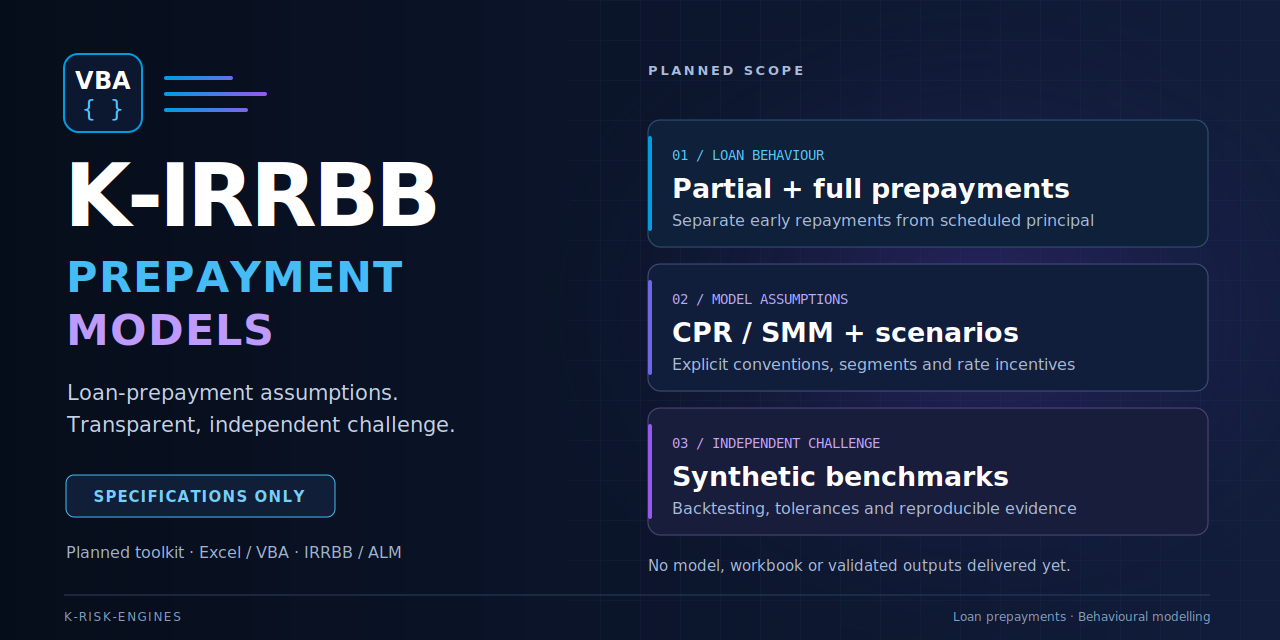
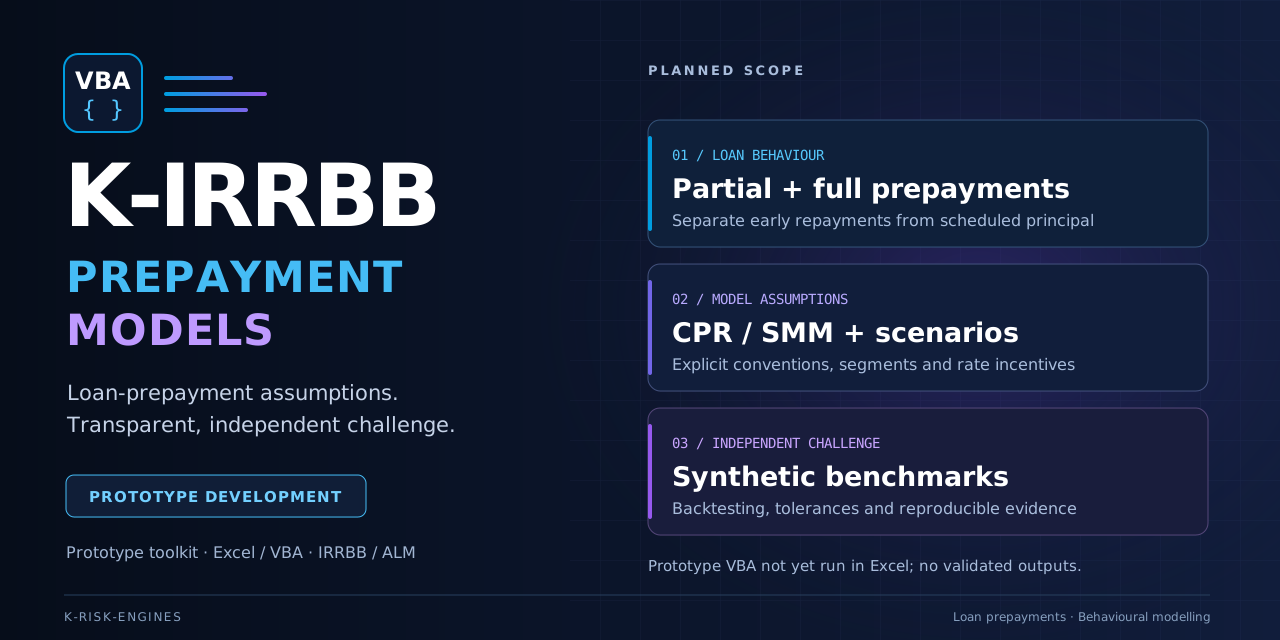
fix: align label docs, branding, workflow runtimes and merge baseline
Resolve the inconsistencies found in the repository audit of main 0157aa2.

Labels (#174): docs/LABELS.md gives the current P1/P2 meanings, the
main-only reconciliation with its refusal to delete a label in use, and the
metadata workflow's scope, which excludes priorities. The blocked
description covers external conditions, the bug description fits reports
the bug form labels, and the issue-triage comment matches check_issues.py.

Branding (#175): the SVG shows Prototype development and says the prototype
VBA has not run in Excel and no output is validated. The PNG is re-rendered
with CairoSVG 2.8.2 as the assets guide prescribes and its digest in
tools/check.py updated. README alt text, the assets guide and
CONTRIBUTING.md follow.

Runtimes (#176): issue-metadata, pr-milestones, labels-sync and
labels-drift install SHA-pinned Python 3.13.18 or Node.js 24.22.2.
check_config.py rejects a step that runs python, python3 or node before a
setup action installs it at an exact version, with unit tests; on the
previous workflows it flags exactly those four. The minimum job becomes
Minimum runtimes (Python 3.10, Node.js 22) and tests Node.js 22.23.5.

Merge baseline (#177): repository-settings.json disables rebase merging;
REPOSITORY_SETTINGS.md names the allowed merge methods.

Validated at this commit: tools/quality.py passes locally (145 baseline
tests, 31 quality tests, Ruff, strict mypy, actionlint); tools/check.py
[…]

diff --git a/tools/check_config.py b/tools/check_config.py
@@ -11,6 +11,12 @@ import yaml
 RELEASE_BRANCH = re.compile(r'release/\d+\.\d+\.\d+')
 # Every pip install of the hash-locked tools must verify hashes and refuse source builds.
 PIP_FLAGS = ('--require-hashes', '--only-binary=:all:')
+# A run step that starts Python or Node.js needs the interpreter installed by an earlier
+# setup step of the same job, at an exact X.Y.Z version, not the runner image's copy.
+RUNTIMES = {'python': ('actions/setup-python@', 'python-version'),
+            'node': ('actions/setup-node@', 'node-version')}
+RUNTIME_COMMAND = re.compile(r'(?:^|[\s;&|(])(python3?|node)(?=\s|$)', re.M)
+EXACT_VERSION = re.compile(r'\d+\.\d+\.\d+')
 REQUIREMENT = re.compile(r'[A-Za-z0-9][A-Za-z0-9._-]*==[^\s;]+(?:\s+--hash=sha256:[0-9a-f]{64})+')
 # Fields each issue form must require, so triage starts from verifiable reports.
 REQUIRED_FORM_FIELDS = {
@@ -67,8 +73,28 @@ def inspect_config(root: Path) -> list[str]:
     return errors
 
 
+def runtime_errors(steps: list[dict[str, Any]]) -> list[str]:
+    """Runtimes that a run step starts before a setup step installed them at an exact version."""
+    installed: set[str] = set()
+    errors = []
+    for step in steps:
+        action = str(step.get('uses', ''))
+        for runtime, (prefix, key) in RUNTIMES.items():
+            if action.startswith(prefix):
+                version = str((step.get('with') or {}).get(key, ''))
+                if not EXACT_VERSION.fullmatch(version):
+                    errors.append(f'{prefix.rstrip("@")} needs an exact {key}, not {version!r}')
+                installed.add(runtime)
+        for command in RUNTIME_COMMAND.findall(str(step.get('run', ''))):
+            runtime = 'node' if command == 'node' else 'python'
+            if runtime not in installed:
+                errors.append(f'{command} runs before {RUNTIMES[runtime][0].rstrip("@")} installs it')
+    return errors
+
+
 def check_workflow(data: dict[Any, Any]) -> None:
-    """Actions are SHA-pinned, checkouts persist no credentials and pip installs verify hashes."""
+    """Actions are SHA-pinned, checkouts persist no credentials, pip installs verify hashes and
+    runtimes are installed at an exact version before use."""
     for job in data.get('jobs', {}).values():
         for step in [job, *job.get('steps', [])]:
             action = step.get('uses', '')
@@ -81,6 +107,9 @@ def check_workflow(data: dict[Any, Any]) -> None:
             for command in pip_installs(str(step.get('run', ''))):
                 if not all(flag in command.split() for flag in PIP_FLAGS):
                     raise ValueError(f'pip install without {" ".join(PIP_FLAGS)}: {command}')
+        problems = runtime_errors(job.get('steps', []))
+        if problems:
+            raise ValueError(problems[0])
 
 
 def check_issue_form(name: str, data: dict[Any, Any], labels: set[str]) -> None:

diff --git a/tools/quality_test_config.py b/tools/quality_test_config.py
@@ -11,8 +11,12 @@ from check_config import (
     dependabot_targets,
     inspect_config,
     logical_lines,
+    runtime_errors,
     unrequired_fields,
 )
+
+SETUP_PYTHON: dict[str, Any] = {'uses': 'actions/setup-python@' + '0' * 40, 'with': {'python-version': '3.13.18'}}
+SETUP_NODE: dict[str, Any] = {'uses': 'actions/setup-node@' + '0' * 40, 'with': {'node-version': '22.23.5'}}
 
 
 class ConfigTests(unittest.TestCase):
@@ -50,6 +54,23 @@ class ConfigTests(unittest.TestCase):
             with self.subTest(form=form):
                 data = yaml.safe_load((forms / form).read_text(encoding='utf-8'))
                 self.assertEqual(unrequired_fields(form, data['body']), [])
+
+    def test_runtimes_must_be_installed_at_an_exact_version_first(self) -> None:
+        self.assertEqual(runtime_errors([SETUP_PYTHON, SETUP_NODE,
+                                         {'run': 'python tools/check.py && node x.mjs'}]), [])
+        self.assertEqual(runtime_errors([{'run': 'echo "python 3"'}]), [])
+        cases: list[tuple[list[dict[str, Any]], str]] = [
+            ([{'run': 'python3 script.py'}], 'python3 runs before actions/setup-python'),
+            ([{'run': "python - <<'PY'\nPY"}], 'python runs before actions/setup-python'),
+            ([{'run': 'set -e\nnode a.mjs'}, SETUP_NODE], 'node runs before actions/setup-node'),
+            ([SETUP_PYTHON, {'run': 'cd x && node a.mjs'}], 'node runs before actions/setup-node'),
+            ([{'uses': SETUP_NODE['uses'], 'with': {'node-version': '22.x'}}],
+             "needs an exact node-version, not '22.x'"),
+            ([{'uses': SETUP_PYTHON['uses']}], "needs an exact python-version, not ''")]
+        for steps, expected in cases:
+            with self.subTest(steps=steps):
+                errors = runtime_errors(steps)
+                self.assertTrue(any(expected in error for error in errors), errors)
 
     def test_quoted_action_tag_is_rejected(self):
         with tempfile.TemporaryDirectory() as tmp:

diff --git a/tools/quality_test_pr_milestones.py b/tools/quality_test_pr_milestones.py
@@ -9,8 +9,9 @@ ROOT = Path(__file__).resolve().parents[1]
 
 def reconciler():
     workflow = yaml.safe_load((ROOT / '.github/workflows/pr-milestones.yml').read_text(encoding='utf-8'))
-    step = workflow['jobs']['reconcile']['steps'][0]
-    code = step['run'].split("python3 - <<'PY'\n", 1)[1].rsplit('\nPY', 1)[0]
+    steps = workflow['jobs']['reconcile']['steps']
+    step = next(step for step in steps if step.get('name') == 'Reconcile PR metadata')
+    code = step['run'].split("python - <<'PY'\n", 1)[1].rsplit('\nPY', 1)[0]
     namespace = {'__name__': 'pr_milestones'}
     exec(compile(code, 'pr-milestones.yml', 'exec'), namespace)
     return namespace['reconcile']
@@ -58,6 +59,11 @@ class PrMilestoneTests(unittest.TestCase):
         api = FakeApi([{'number': 5, 'pull_request': {}, 'milestone': {'number': 2}}], keep_milestone=[5])
         with self.assertRaises(ValueError):
             reconciler()(api, 'o/r', {'pull_request': {}, 'number': 5})
+
+    def test_the_job_installs_python_and_never_checks_out_code(self) -> None:
+        workflow = yaml.safe_load((ROOT / '.github/workflows/pr-milestones.yml').read_text(encoding='utf-8'))
+        actions = [str(step.get('uses', '')).split('@')[0] for step in workflow['jobs']['reconcile']['steps']]
+        self.assertEqual(actions, ['actions/setup-python', ''])
 
 
 if __name__ == '__main__':

diff --git a/tools/check.py b/tools/check.py
@@ -13,7 +13,7 @@ from check_source import inspect_source
 # Deliberate binary exception: reviewed branding export only (see docs/assets/README.md).
 APPROVED_IMAGES = {
     'docs/assets/prepayment-social-preview.png':
[2 lines of base64/hex data omitted]
 }
 
 ROOT = Path(__file__).resolve().parents[1]

diff --git a/CHANGELOG.md b/CHANGELOG.md
@@ -65,9 +65,13 @@ All work is unreleased. Closing the setup milestone (v0.1.0 - Repo setup) on 202
 - Release branches follow milestones: one `release/<milestone version>` branch per milestone is the integration target for task PRs and Dependabot. Task PRs are squash-merged into it; integration into main uses a merge commit, and it is levelled with main after each integration. `release/0.1.0` served v0.1.0 - Repo setup and is retired; `release/0.2.0`, created from main at `14a45c8` on 2026-10-21, is active for v0.2.0 - Prototype setup (#59). No release, tag or version is implied.
 - Upgraded pinned actionlint to 1.7.12 for current environment syntax (#11).
 - Brought the Markdown documentation in line with the closed setup milestone and removed setup-history comparisons with K-IRRBB-NMDs from the settings, governance and label guides (#53). Documentation only.
+- Metadata, PR-milestone and label workflows install SHA-pinned Python 3.13.18 or Node.js 24.22.2 instead of the runner image's copy, and `tools/check_config.py` rejects a workflow step that runs `python`, `python3` or `node` before a setup step installs it at an exact version. The non-required minimum job, now *Minimum runtimes (Python 3.10, Node.js 22)*, also checks the documented Node.js 22 floor on 22.23.5 (#176).
+- The settings baseline disables rebase merging, which no branch flow uses; the settings guide names the allowed merge methods (#177). The live setting changes when the baseline is applied (#119).
 
 ### Fixed
 
+- `docs/LABELS.md` gives the current P1/P2 meanings, the main-only label reconciliation and its refusal to delete a label in use, and the metadata workflow's scope, which excludes priorities; the `blocked` description covers external conditions and the `bug` description fits reports from the bug form; the triage workflow comment matches `tools/check_issues.py` (#174).
+- The branding SVG and PNG show **Prototype development** and say the prototype VBA has not run in Excel and no output is validated, replacing *Specifications only*; README alt text and the assets guide match, and the PNG digest is updated. `CONTRIBUTING.md` no longer calls existing calculations future work (#175).
 - Keep the branding caveat beside the README image rather than inside the project-status paragraph, so the portfolio hub can quote the status without an absent-image reference (danielep71/K-Risk-Engines#198).
 
 - Delivery status in the specifications and reference docs (#92): the README, `REPOSITORY_STRUCTURE.md`, the workbook, data, model and test-case contracts, the validation plan, Excel evidence, `src/`, `tests/` and the tooling guides state what is built (template tooling, rate conversions, the VBA import with its facade and adapter, a 16-case harness; all twelve `DATA-*` cases in Python, eleven also in VBA) and that nothing has run in Windows Excel. Earlier changelog counts are qualified with the PR that reached them. The milestone index records the v0.2.0 due date. Dated decisions and provenance are unchanged.

diff --git a/tools/README.md b/tools/README.md
@@ -21,7 +21,7 @@ python -m venv .venv-quality
 
 Install **actionlint 1.7.12** from its [official release](https://github.com/rhysd/actionlint/releases/tag/v1.7.12) and put it on PATH before the last command. Choose the archive for your operating system and verify its release checksum. CI uses the Linux amd64 archive with a literal SHA-256 checksum. No downloaded installer script is executed.
 
-The full gate includes the portable baseline, duplicate-key-safe YAML parsing, issue form labels/priorities/assignee/field IDs, Dependabot branch/labels, Ruff lint, import and complexity checks (no function above a complexity of 15, except in the independent reference reader under `tests/reference/`), strict mypy checking with unreachable-code warnings, and actionlint workflow syntax/expression validation. Negative fixtures verify invalid configuration and an invalid workflow actually fail. `pyproject.toml` states the selected rules and their exemptions: test modules are type-checked but need not annotate every test method, and each new test module is added to that list. Actionlint's optional ShellCheck and Pyflakes integrations are disabled for consistent local/CI behaviour; Python is checked separately.
+The full gate includes the portable baseline, duplicate-key-safe YAML parsing, issue form labels/priorities/assignee/field IDs, Dependabot branch/labels, workflow steps that run Python or Node.js only after a setup action installs an exact version, Ruff lint, import and complexity checks (no function above a complexity of 15, except in the independent reference reader under `tests/reference/`), strict mypy checking with unreachable-code warnings, and actionlint workflow syntax/expression validation. Negative fixtures verify invalid configuration and an invalid workflow actually fail. `pyproject.toml` states the selected rules and their exemptions: test modules are type-checked but need not annotate every test method, and each new test module is added to that list. Actionlint's optional ShellCheck and Pyflakes integrations are disabled for consistent local/CI behaviour; Python is checked separately.
 
 `Repository integrity` runs on pushes to main and `release/**` branches, on all PRs and on manual dispatch. Its stable job ID is `integrity`. Logs include the exact source SHA, tool versions and check output and are retained for 14 days. Runner OS patch levels are managed by GitHub; action revisions, Python packages (including transitive dependencies) and the actionlint archive are pinned. Update pins deliberately and run the full gate. Passing checks is not Excel or model certification.
 

diff --git a/docs/LABELS.md b/docs/LABELS.md
@@ -4,10 +4,12 @@ The canonical catalogue is `.github/labels.json`; `.github/label-policy.json` se
 
 | Priority | Meaning |
 | --- | --- |
-| P1 | Critical release blocker or serious correctness, data or application-state risk |
-| P2 | Material correctness, robustness or maintainability defect |
+| P1 | Confirmed calculation bug: wrong results for valid inputs (reserved for this case, labelled `bug`) |
+| P2 | Release blocker or material correctness, data, robustness or maintainability defect |
 | P3 | Non-blocking quality, testing, documentation or technical-debt improvement |
 
 Meanings follow `.github/labels.json`. In this repository P2 also covers significant foundation work. Use one priority plus relevant type labels. A label is not a milestone.
 
-`labels-sync.yml` validates PR changes read-only and reconciles on trusted main pushes or manual dispatch. Reconciliation removes labels outside the catalogue: update the manifest intentionally when changing taxonomy. `labels-drift.yml` checks daily at 05:17 UTC and reports without mutating labels. Issue metadata enforcement separately fills owner/milestone and resolves priorities; see [governance](GOVERNANCE.md).
+`labels-sync.yml` validates PR changes read-only and reconciles on pushes to main and on manual runs from main only. Reconciliation removes labels outside the catalogue, but refuses, before changing anything, to delete one that is still on an issue or pull request: update the manifest intentionally when changing taxonomy. `labels-drift.yml` checks daily at 05:17 UTC and reports without mutating labels.
+
+`bug` marks a reported or confirmed defect: the bug form applies it to every report, and I confirm the defect at triage. `blocked` is set exactly while the issue's *Dependencies* section names an open prerequisite or an external condition. Issue metadata enforcement fills the owner and milestone and never sets or changes a priority; the read-only *Issue triage* workflow reports a missing or extra priority and a wrong `blocked`. See [governance](GOVERNANCE.md).

diff --git a/docs/REPOSITORY_SETTINGS.md b/docs/REPOSITORY_SETTINGS.md
@@ -17,6 +17,10 @@ python tools/setup_repository.py --repo danielep71/K-IRRBB-Prepayment_Models --a
 - Rulesets outside the baseline are reported as unmanaged and never changed or deleted; I delete one by hand when a managed ruleset replaces it.
 - `tools/test_setup_repository.py` tests the script offline against a fake API.
 
+## Merge methods
+
+The repository allows merge commits and squash merges, and not rebase merges. The rulesets narrow them per branch: merge commits only into main, and merge or squash into a release branch. Task PRs are squash-merged; integration and sync PRs use merge commits.
+
 ## Rulesets
 
 | Ruleset | Applies to | Rules |
@@ -28,7 +32,7 @@ python tools/setup_repository.py --repo danielep71/K-IRRBB-Prepayment_Models --a
 
 No ruleset has bypass actors, and none requires an approving review: I cannot approve my own PRs, and my review remains required by policy. `release/**` covers every release branch, so a new milestone's branch is protected from its creation.
 
-The required check is the `integrity` job of the `Repository integrity` workflow (GitHub Actions, app 15368). Event-specific metadata, triage or label jobs are not required checks because they do not run on every PR. *CodeQL*, *Link check* and the *Minimum Python* job are not required checks either.
+The required check is the `integrity` job of the `Repository integrity` workflow (GitHub Actions, app 15368). Event-specific metadata, triage or label jobs are not required checks because they do not run on every PR. *CodeQL*, *Link check* and the *Minimum runtimes* job are not required checks either.
 
 ## Security features
 

diff --git a/CONTRIBUTING.md b/CONTRIBUTING.md
@@ -14,6 +14,6 @@ Future Office assets require inspection of hidden sheets, names, cached data, li
 
 ## Evidence
 
-Static checks establish repository integrity only. Future calculations need independent expected values and tolerances; Excel changes need real compile/run evidence on the candidate SHA with host version/bitness. An empty test suite or Python pass is not a substitute. See the [validation plan](docs/methodology/VALIDATION_PLAN.md) and [Excel evidence](docs/EXCEL_EVIDENCE.md).
+Static checks establish repository integrity only. Calculations need independent expected values and tolerances; Excel changes need real compile/run evidence on the candidate SHA with host version/bitness. An empty test suite or Python pass is not a substitute. See the [validation plan](docs/methodology/VALIDATION_PLAN.md) and [Excel evidence](docs/EXCEL_EVIDENCE.md).
 
 Original contributions use [MPL-2.0](LICENSE). Report vulnerabilities to me privately under the [security policy](SECURITY.md), and follow the [conduct rules](CODE_OF_CONDUCT.md).

diff --git a/docs/assets/README.md b/docs/assets/README.md
@@ -11,9 +11,9 @@ as self-contained SVG; text and shapes remain editable. There are no external
 fonts, scripts, linked images, model curves or numerical results. It uses
 DejaVu Sans and DejaVu Sans Mono, with system fallbacks.
 
-All three panels describe **planned scope**. The status is **Specifications only**,
-and the footer explicitly says no model, workbook or validated outputs have
-been delivered. These labels must be reviewed when capabilities change.
+All three panels describe **planned scope**. The status is **Prototype development**,
+and the footer says the prototype VBA has not yet run in Excel and no output
+is validated. These labels must be reviewed when capabilities change.
 The graphic is project branding, not a model-validation statement or an
 endorsement by an employer. No employer name or logo is used.
 

diff --git a/INSTALLATION.md b/INSTALLATION.md
@@ -4,7 +4,7 @@ There is no workbook, add-in or prepayment engine to install yet.
 
 ## Current prerequisites
 
-You need Git, **Python 3.10+** and **Node.js 22+**. The baseline checks use standard libraries only: they need no package installation, token or Excel instance. CI runs them on Python 3.13 and Node.js 24, and the non-required *Minimum Python (3.10)* job runs them on the 3.10 floor.
+You need Git, **Python 3.10+** and **Node.js 22+**. The baseline checks use standard libraries only: they need no package installation, token or Excel instance. CI runs them on Python 3.13 and Node.js 24, and the non-required *Minimum runtimes (Python 3.10, Node.js 22)* job runs them on both floors.
 
 ```sh
 git clone https://github.com/danielep71/K-IRRBB-Prepayment_Models.git

diff --git a/README.md b/README.md
@@ -1,8 +1,6 @@
 # K-IRRBB Prepayment Models
 
-![K-IRRBB Prepayment Models: specifications only; planned loan-prepayment modelling and independent challenge](docs/assets/prepayment-social-preview.png)
-
-The branding graphic retains an earlier specifications-only label; the current development status is stated below.
+![K-IRRBB Prepayment Models: prototype development; planned loan-prepayment modelling and independent challenge, no validated outputs](docs/assets/prepayment-social-preview.png)
 
 ### Transparent loan-prepayment assumptions in Excel/VBA
 
